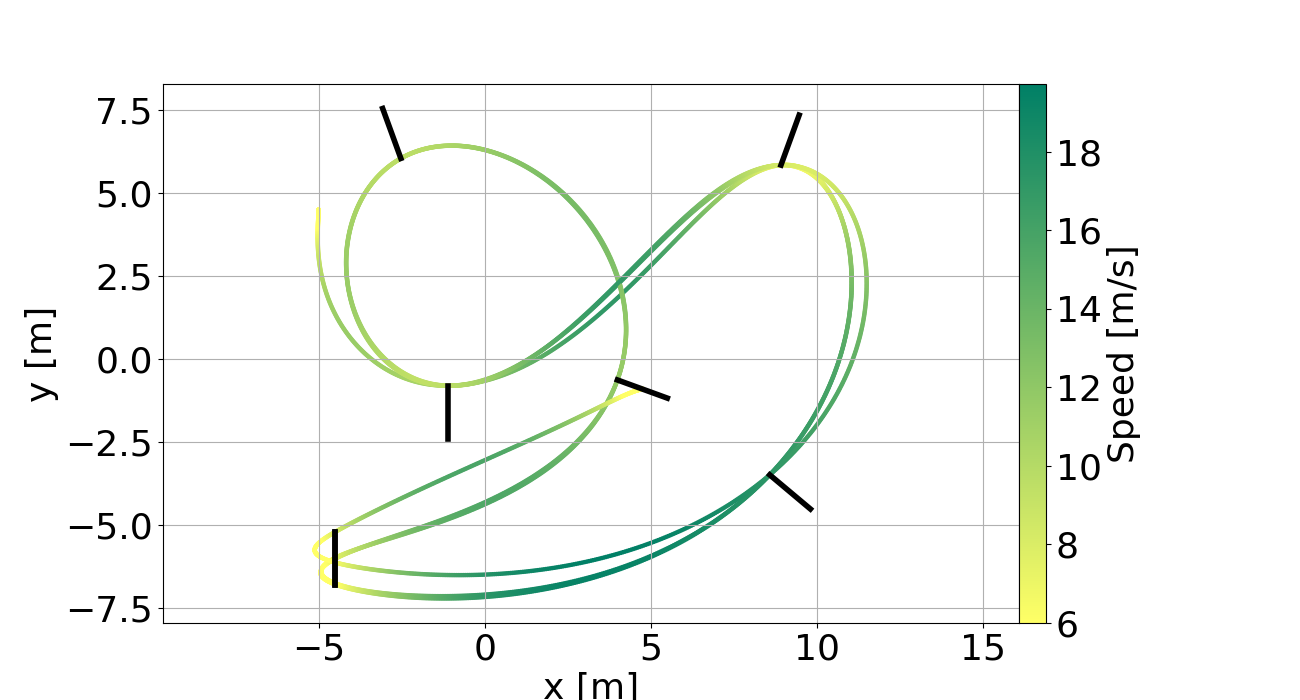
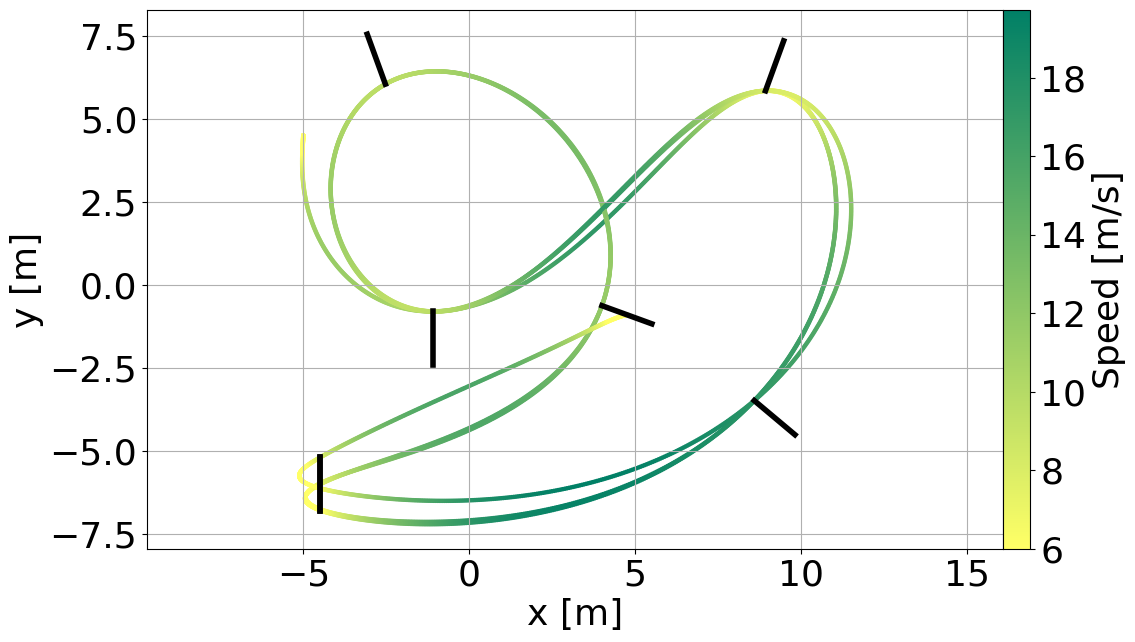
fix cropped plot

diff --git a/scripts/plots/plot_aos_togt_traj.py b/scripts/plots/plot_aos_togt_traj.py
@@ -1,7 +1,6 @@
 import numpy as np
 import matplotlib
 import matplotlib.pyplot as plt
-from scipy.interpolate import UnivariateSpline
 
 import sys, os
 BASEPATH = os.path.abspath(__file__).split("plots/", 1)[0]+"plots/"
@@ -103,6 +102,6 @@ plt.xlabel('x [m]')
 plt.ylabel('y [m]')
 plt.axis('equal')
 plt.grid()
-plt.savefig('aos_togt_traj.png')
+plt.savefig('aos_togt_traj.png', bbox_inches='tight')
 
 plt.show()

diff --git a/scripts/plots/plot_aos_traj.py b/scripts/plots/plot_aos_traj.py
@@ -1,7 +1,6 @@
 import numpy as np
 import matplotlib
 import matplotlib.pyplot as plt
-from scipy.interpolate import UnivariateSpline
 
 import sys, os
 BASEPATH = os.path.abspath(__file__).split("plots/", 1)[0]+"plots/"
@@ -103,6 +102,6 @@ plt.xlabel('x [m]')
 plt.ylabel('y [m]')
 plt.axis('equal')
 plt.grid()
-plt.savefig('aos_traj.png')
+plt.savefig('aos_traj.png', bbox_inches='tight')
 
 plt.show()

diff --git a/scripts/plots/plot_aos_refined_traj.py b/scripts/plots/plot_aos_refined_traj.py
@@ -1,7 +1,6 @@
 import numpy as np
 import matplotlib
 import matplotlib.pyplot as plt
-from scipy.interpolate import UnivariateSpline
 
 import sys, os
 BASEPATH = os.path.abspath(__file__).split("plots/", 1)[0]+"plots/"
